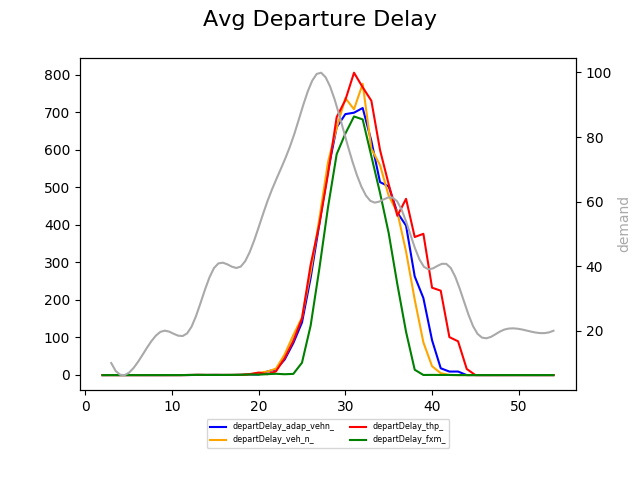
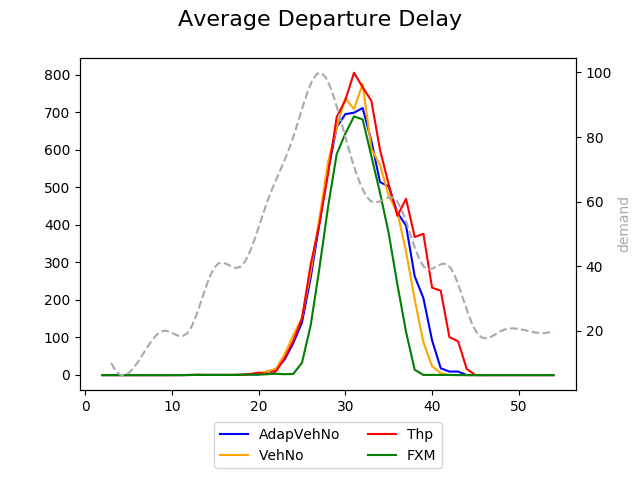
plots with dashed demand line exp23

Changed region(s): [[0.3125, 0.875, 0.7188, 0.9688], [0.2812, 0.0, 0.7188, 0.0625]]

diff --git a/stats/stats_plotter_sumo_base_simulations_exp23.py b/stats/stats_plotter_sumo_base_simulations_exp23.py
@@ -94,11 +94,13 @@ def createSinglePlotAveragesOnly(folder, label, experimentParams, y_column, titl
 
     result = None
     y_columns = []
+    y_labels = []
     for e in experimentParams:
         dfAll = aggregateDFs(e['results'], 'step', y_column, aggFunc)
         new_y_col = f"{y_column}_{e['prefix']}"
         dfAll.rename(columns={y_column: new_y_col}, inplace=True)
         y_columns.append(new_y_col)
+        y_labels.append(e['label'])
         if (result is None): result = dfAll
         else:  result = pd.merge(result, dfAll, on='step', sort = False)
 
@@ -118,7 +120,7 @@ def createSinglePlotAveragesOnly(folder, label, experimentParams, y_column, titl
         ax = input_ax
 
     for i, y in enumerate(y_columns):
-        ax.plot(result[base_column].iloc[start_at:], result[y].iloc[start_at:], color=PLOT_COLORS[i % len(PLOT_COLORS)], label=y)
+        ax.plot(result[base_column].iloc[start_at:], result[y].iloc[start_at:], color=PLOT_COLORS[i % len(PLOT_COLORS)], label=y_labels[i])
 
     if (input_ax is None):
         # Shrink current axis's height by 10% on the bottom
@@ -130,7 +132,7 @@ def createSinglePlotAveragesOnly(folder, label, experimentParams, y_column, titl
 
         # Put a legend below current axis
         ax.legend(loc='upper center', bbox_to_anchor=(0.5, -0.075),
-            fancybox=True, ncol=2, fontsize='xx-small')
+            fancybox=True, ncol=2, fontsize='medium')
 
     plt.savefig(f"output/{folder}/stats/sumo_full_{label}_single.png")
 
@@ -162,7 +164,7 @@ def generateStatistics(folder, experimentParams, numberOfRuns, label, col, input
     #              groupRunsColumn = col, groupRunsFunc = 'mean', discretizeStepBy = 600)
 
 
-    writeTableMinMaxMeanStd(experimentParams, f"./output/{folder}/stats/sumo_full_stats_vehn_{col}.csv", col, numberOfRuns)
+    #writeTableMinMaxMeanStd(experimentParams, f"./output/{folder}/stats/sumo_full_stats_vehn_{col}.csv", col, numberOfRuns)
 
     ax, fig = createSinglePlotAveragesOnly(folder, f"vehn_{col}_avg", experimentParams, col, label, discretizeStepBy = 600, input_ax = input_ax, start_at = 2)
     plotDemand(ax, fig, f"output/{folder}/stats/sumo_full_vehn_{col}_single_w_demand.png", discretizeBy = 600, start_at=2)
@@ -172,23 +174,23 @@ if __name__ == '__main__':
 
     experimentPrefix = 'exp23'
     experimentParams = [
-        {'prefix': 'adap_vehn_', 'configFile': 'configs/single_final_qlearning_adaptative_veh_n_throughput.cfg'},
-        {'prefix': 'veh_n_', 'configFile': 'configs/single_final_qlearning_avg_vehicle_number.cfg'},
-        #{'prefix': 'adap_dwtp_', 'configFile': 'configs/single_final_qlearning_adaptative_delay_throughput.cfg'},
-        #{'prefix': 'dwtp_', 'configFile': 'configs/single_final_qlearning_delay_wasted_time_penalty_log.cfg'},
-        {'prefix': 'thp_', 'configFile': 'configs/single_final_qlearning_throughput.cfg'},
-        {'prefix': 'fxm_', 'configFile': 'configs/single_final_fixed_time.cfg'},
+        {'prefix': 'adap_vehn_', 'label': 'AdapVehNo', 'configFile': 'configs/single_final_qlearning_adaptative_veh_n_throughput.cfg'},
+        {'prefix': 'veh_n_', 'label': 'VehNo', 'configFile': 'configs/single_final_qlearning_avg_vehicle_number.cfg'},
+        #{'prefix': 'adap_dwtp_', 'label': 'AdapDWTP', 'configFile': 'configs/single_final_qlearning_adaptative_delay_throughput.cfg'},
+        #{'prefix': 'dwtp_', 'label': 'DWTP', 'configFile': 'configs/single_final_qlearning_delay_wasted_time_penalty_log.cfg'},
+        {'prefix': 'thp_', 'label': 'Thp', 'configFile': 'configs/single_final_qlearning_throughput.cfg'},
+        {'prefix': 'fxm_', 'label': 'FXM', 'configFile': 'configs/single_final_fixed_time.cfg'},
     ]
     numberOfRuns = 10
 
-    experimentPrefix = 'exp25'
-    experimentParams = [{'prefix': 'adap_vehn_', 'configFile': 'configs/single_final_qlearning_adaptative_veh_n_throughput.cfg'},
-                {'prefix': 'veh_n_', 'configFile': 'configs/single_final_qlearning_avg_vehicle_number.cfg'},
-                {'prefix': 'thp_', 'configFile': 'configs/single_final_qlearning_throughput.cfg'}]
-    
-    numberOfRuns = 25
+    #experimentPrefix = 'exp25'
+    #experimentParams = [{'prefix': 'adap_vehn_', 'configFile': 'configs/single_final_qlearning_adaptative_veh_n_throughput.cfg'},
+    #            {'prefix': 'veh_n_', 'configFile': 'configs/single_final_qlearning_avg_vehicle_number.cfg'},
+    #            {'prefix': 'thp_', 'configFile': 'configs/single_final_qlearning_throughput.cfg'}]
 
-    experimentParams = readFiles(experimentPrefix, copy.deepcopy(experimentParams), fromRun = 50, toRun = 75)
+    #numberOfRuns = 25
+
+    experimentParams = readFiles(experimentPrefix, copy.deepcopy(experimentParams), fromRun = 5, toRun = 15)
 
     col_depart_delay = 'departDelay'
     col_duration = 'duration'
@@ -196,12 +198,12 @@ if __name__ == '__main__':
     col_waiting_count = 'waitingCount'
     col_time_loss = 'timeLoss'
 
-    ax = generateStatistics(experimentPrefix, experimentParams, numberOfRuns, 'Avg Departure Delay', col_depart_delay)
+    ax = generateStatistics(experimentPrefix, experimentParams, numberOfRuns, 'Average Departure Delay', col_depart_delay)
 
-    ax = generateStatistics(experimentPrefix, experimentParams, numberOfRuns, 'Avg Travel Time', col_duration)
+    ax = generateStatistics(experimentPrefix, experimentParams, numberOfRuns, 'Average Travel Time', col_duration)
 
-    ax = generateStatistics(experimentPrefix, experimentParams, numberOfRuns, 'Avg Waiting Time', col_waiting_time)
+    ax = generateStatistics(experimentPrefix, experimentParams, numberOfRuns, 'Average Waiting Time', col_waiting_time)
 
-    ax = generateStatistics(experimentPrefix, experimentParams, numberOfRuns, 'Avg Waiting Count', col_waiting_count)
+    ax = generateStatistics(experimentPrefix, experimentParams, numberOfRuns, 'Average Number of Stops', col_waiting_count)
 
-    ax = generateStatistics(experimentPrefix, experimentParams, numberOfRuns, 'Avg Time Loss', col_time_loss)
+    ax = generateStatistics(experimentPrefix, experimentParams, numberOfRuns, 'Average Time Loss', col_time_loss)
